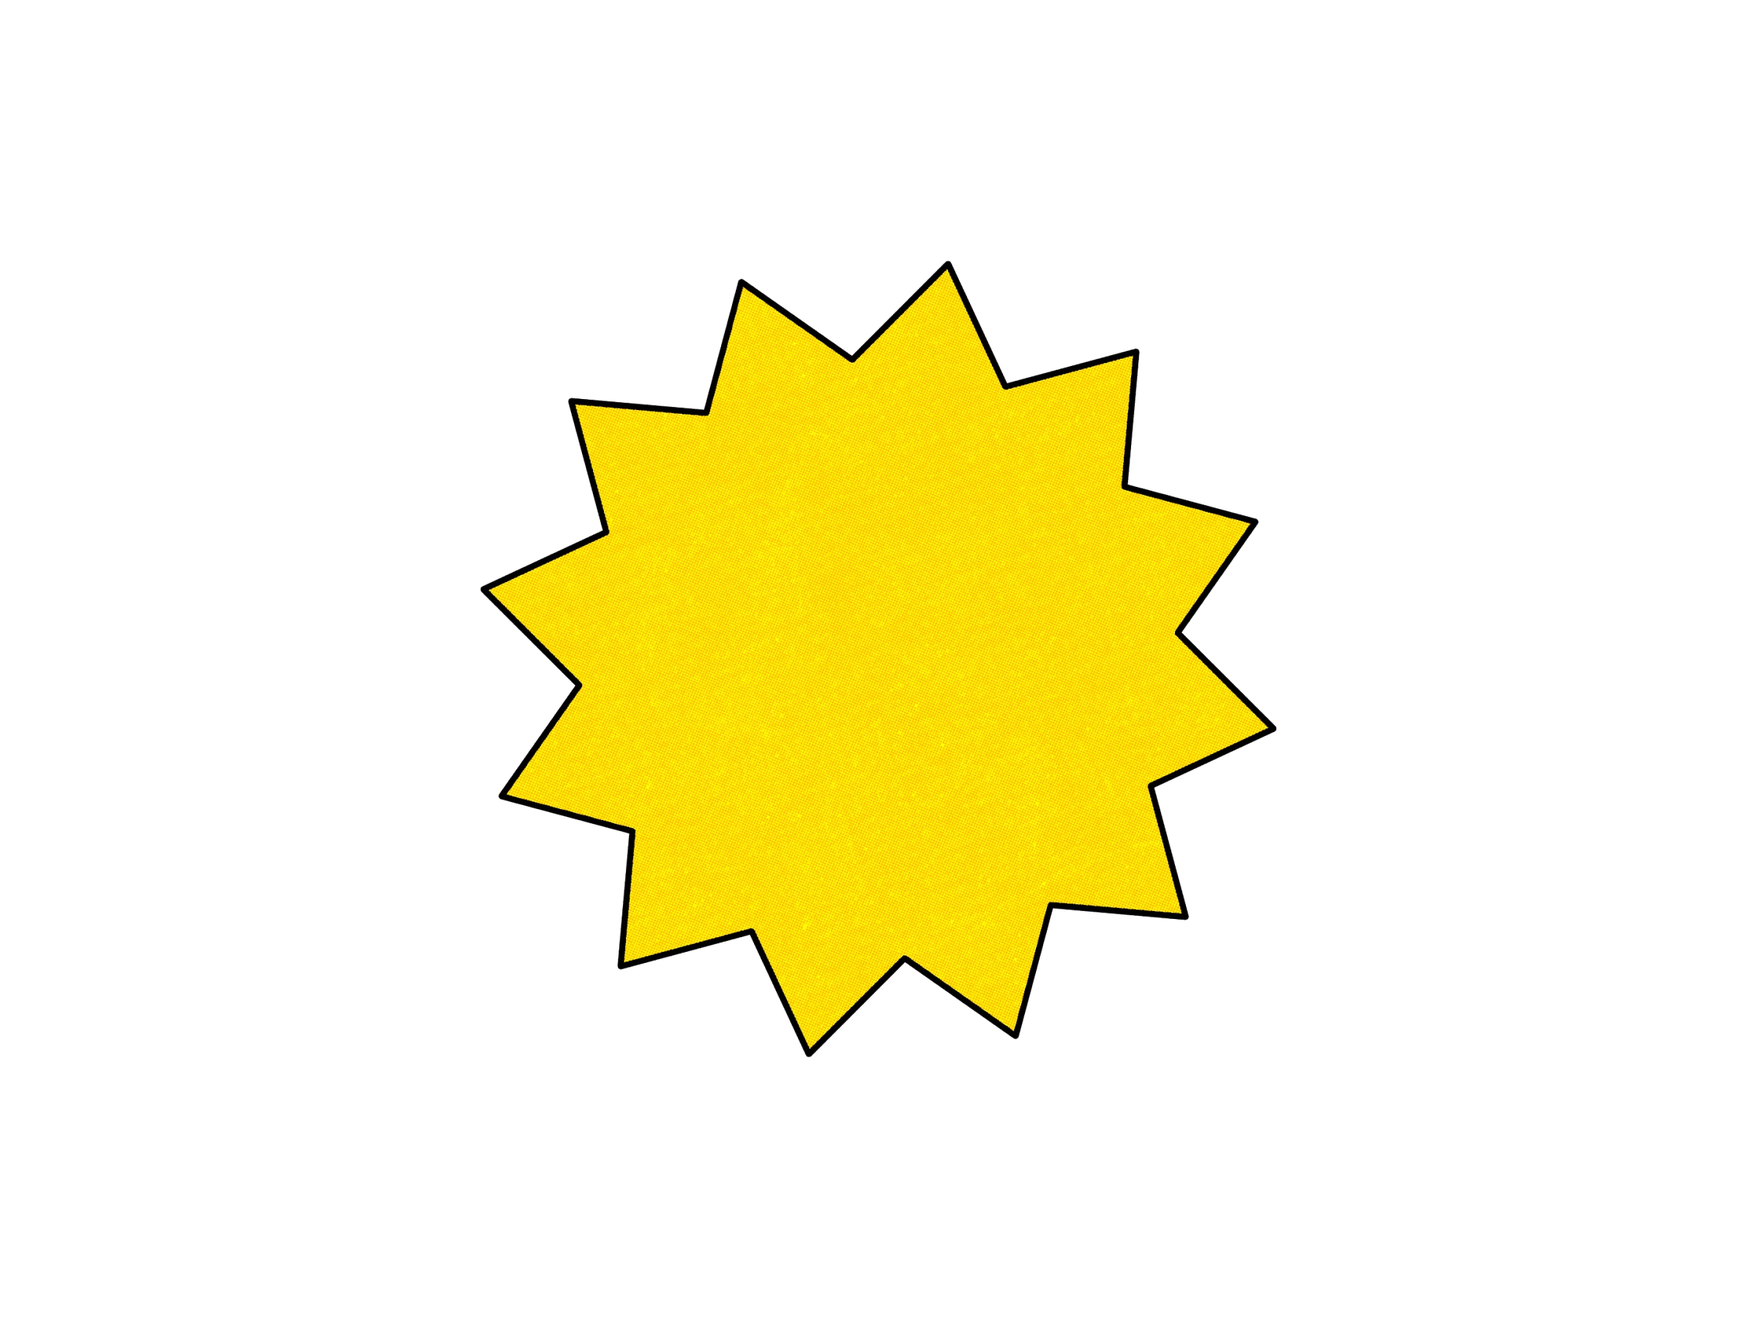
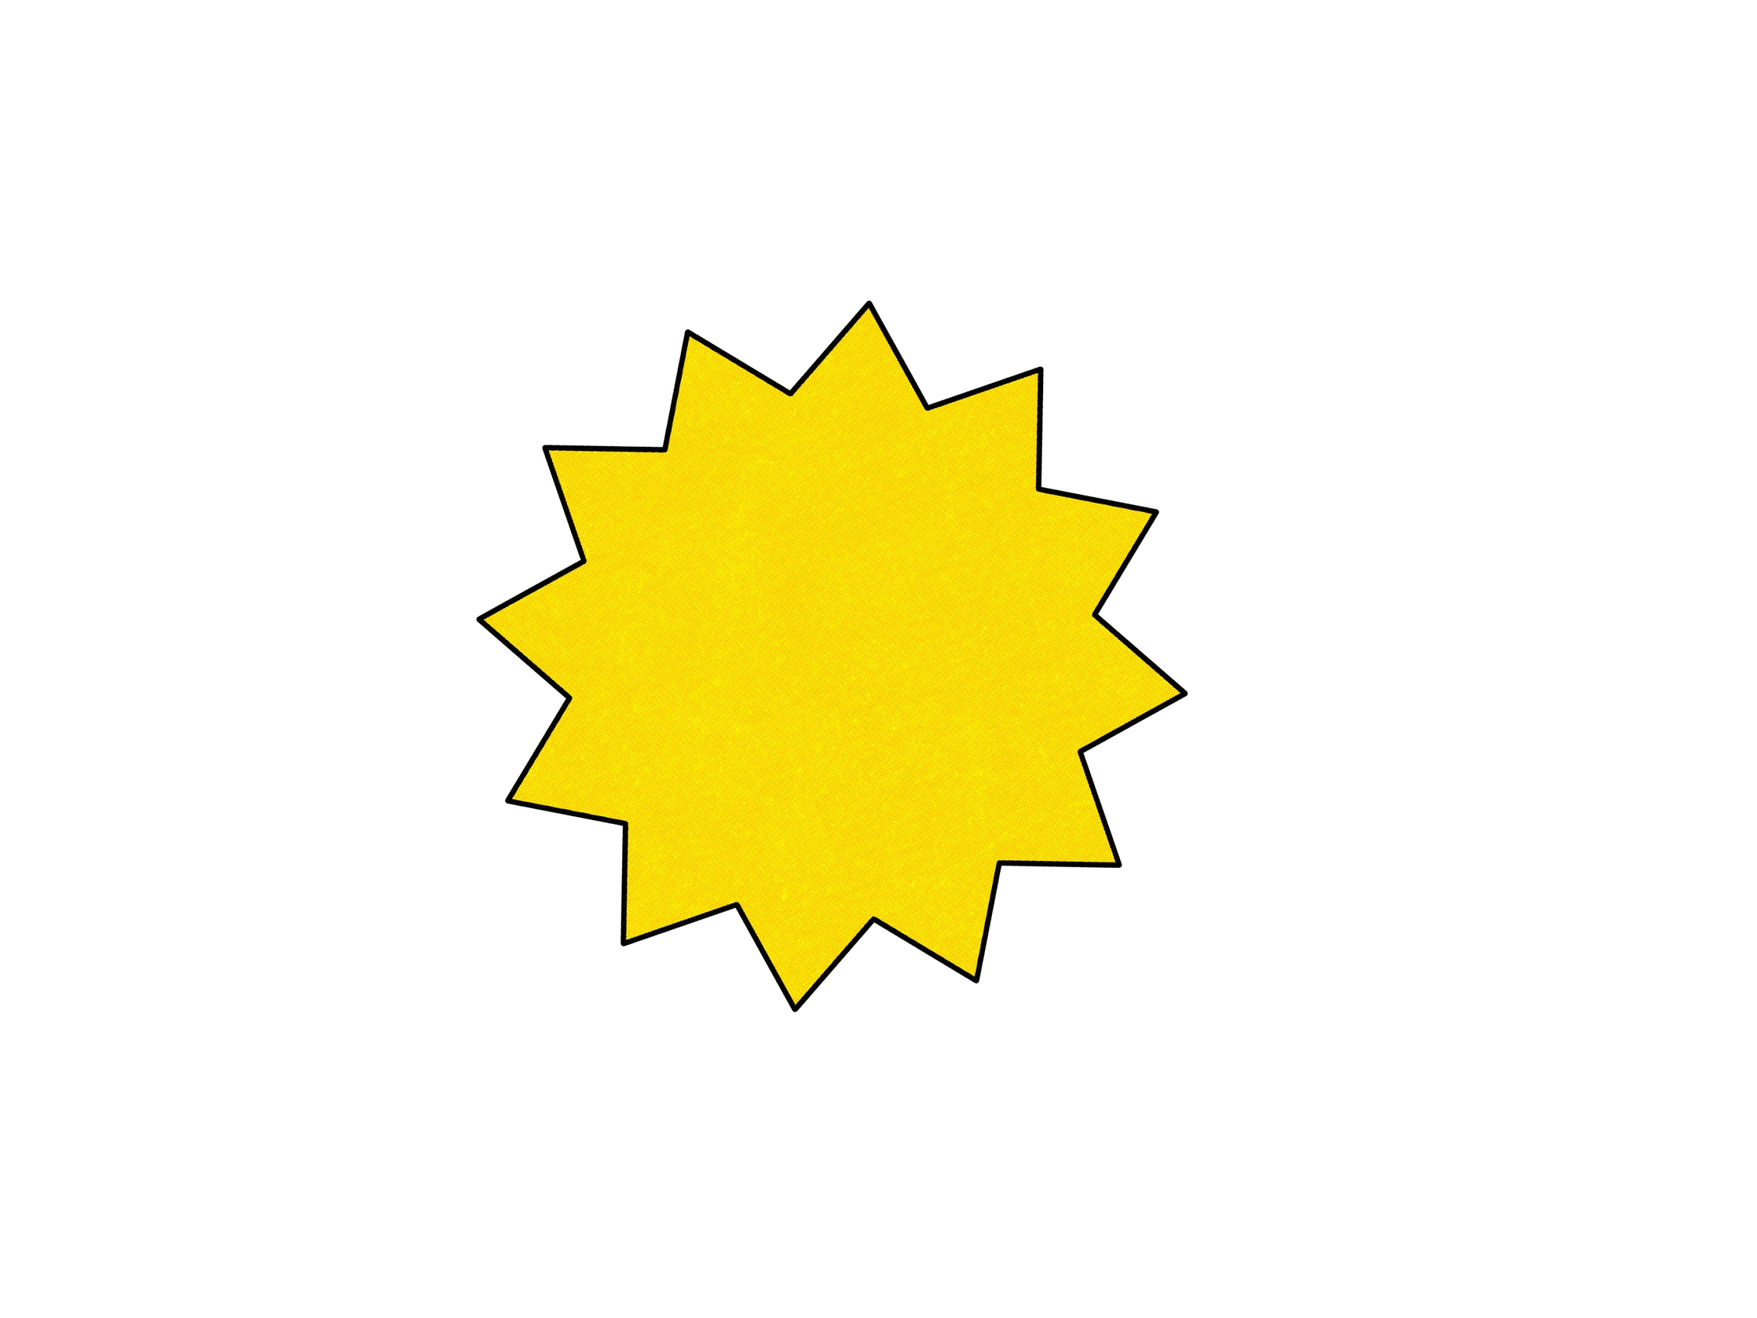
Misc: starburst fitted back to the original composite, hero held to the work-column width; asset version 212
Mike's split star came out ~11% larger, rotated and further right than in
his earlier single-subject composite. Fitted to that composite's visible
star tips (IoU 0.96): scale 0.885, rotate 4 deg, 76px left at 2880 wide.
The meal and letters were already within 1%. heroFit: 'content' keeps the
hero to the same margins as the work grid below.

Changed region(s): [[0.25, 0.1867, 0.7188, 0.8089]]

diff --git a/miscellaneous.html b/miscellaneous.html
@@ -5,13 +5,13 @@
 <meta name="viewport" content="width=device-width, initial-scale=1.0">
 <title>Miscellaneous — Michael Loya Studio</title>
 <meta name="description" content="Miscellaneous — Selected Works. Michael Loya Studio.">
-<link rel="icon" type="image/svg+xml" href="favicon.svg?v=211">
+<link rel="icon" type="image/svg+xml" href="favicon.svg?v=212">
 
 <link rel="canonical" href="https://michaelloya.studio/miscellaneous">
 
 <meta property="og:title" content="Miscellaneous — Michael Loya Studio">
 <meta property="og:description" content="Selected Works">
-<meta property="og:image" content="https://michaelloya.studio/projects/miscellaneous/you-cover.jpg?v=4">
+<meta property="og:image" content="https://michaelloya.studio/projects/miscellaneous/you-cover.jpg?v=5">
 <meta property="og:url" content="https://michaelloya.studio/miscellaneous">
 <meta property="og:type" content="article">
 <meta name="twitter:card" content="summary_large_image">
@@ -19,7 +19,7 @@
 <link rel="preconnect" href="https://fonts.googleapis.com">
 <link rel="preconnect" href="https://fonts.gstatic.com" crossorigin>
 <link href="https://fonts.googleapis.com/css2?family=Inter:ital,wght@0,300..700;1,300..700&display=swap" rel="stylesheet">
-<link rel="stylesheet" href="assets/css/site.css?v=211">
+<link rel="stylesheet" href="assets/css/site.css?v=212">
 <style>
   html { background: #0a0a0a; }
   body { opacity: 0; animation: pageIn 0.4s ease 0.03s forwards; }
@@ -91,9 +91,9 @@
 </footer>
 
 <script>window.PROJECT_SLUG = "miscellaneous";</script>
-<script src="assets/js/projects.js?v=211"></script>
-<script src="assets/js/project-page.js?v=211"></script>
-<script src="assets/js/site.js?v=211"></script>
+<script src="assets/js/projects.js?v=212"></script>
+<script src="assets/js/project-page.js?v=212"></script>
+<script src="assets/js/site.js?v=212"></script>
 <!-- GoatCounter: page views, no cookies. Skips itself on localhost. -->
 <script data-goatcounter="https://michaelloya.goatcounter.com/count" async src="https://gc.zgo.at/count.js"></script>
 </body>

diff --git a/index.html b/index.html
@@ -5,7 +5,7 @@
 <meta name="viewport" content="width=device-width, initial-scale=1.0">
 <title>Michael Loya Studio</title>
 <meta name="description" content="Michael Loya Studio — video, motion, and design for artists and brands.">
-<link rel="icon" type="image/svg+xml" href="favicon.svg?v=211">
+<link rel="icon" type="image/svg+xml" href="favicon.svg?v=212">
 
 <link rel="canonical" href="https://michaelloya.studio/">
 
@@ -19,7 +19,7 @@
 <link rel="preconnect" href="https://fonts.googleapis.com">
 <link rel="preconnect" href="https://fonts.gstatic.com" crossorigin>
 <link rel="stylesheet" href="https://use.typekit.net/oft2xxg.css">
-<link rel="stylesheet" href="assets/css/site.css?v=211">
+<link rel="stylesheet" href="assets/css/site.css?v=212">
 <style>
   /* First-paint guard. Applies before anything else resolves, so the page
      never flashes raw content before the load-in animations start.
@@ -81,8 +81,8 @@
     </div>
 
     <a class="hero-work" id="heroWork" href="/loya" aria-label="goodbye, for loya — latest work">
-      <video src="assets/video/hero-loop.mp4?v=211"
-             poster="assets/video/hero-loop-poster.jpg?v=211"
+      <video src="assets/video/hero-loop.mp4?v=212"
+             poster="assets/video/hero-loop-poster.jpg?v=212"
              muted loop playsinline preload="auto"
              width="1600" height="900"></video>
     </a>
@@ -111,9 +111,9 @@
 </footer>
 
 <!-- ══ PROJECT DETAIL ══ -->
-<script src="assets/js/projects.js?v=211"></script>
-<script src="assets/js/hero.js?v=211"></script>
-<script src="assets/js/site.js?v=211"></script>
+<script src="assets/js/projects.js?v=212"></script>
+<script src="assets/js/hero.js?v=212"></script>
+<script src="assets/js/site.js?v=212"></script>
 <!-- GoatCounter: page views, no cookies. Skips itself on localhost. -->
 <script data-goatcounter="https://michaelloya.goatcounter.com/count" async src="https://gc.zgo.at/count.js"></script>
 </body>

diff --git a/about.html b/about.html
@@ -5,7 +5,7 @@
 <meta name="viewport" content="width=device-width, initial-scale=1.0">
 <title>About — Michael Loya Studio</title>
 <meta name="description" content="Michael Loya — designer, editor, and motion designer. Syracuse University, Newhouse Department Prize in Motion Graphics.">
-<link rel="icon" type="image/svg+xml" href="favicon.svg?v=211">
+<link rel="icon" type="image/svg+xml" href="favicon.svg?v=212">
 
 <link rel="canonical" href="https://michaelloya.studio/about">
 
@@ -18,7 +18,7 @@
 
 <link rel="preconnect" href="https://fonts.googleapis.com">
 <link rel="preconnect" href="https://fonts.gstatic.com" crossorigin>
-<link rel="stylesheet" href="assets/css/site.css?v=211">
+<link rel="stylesheet" href="assets/css/site.css?v=212">
 <style>
   /* First-paint guard. Applies before anything else resolves, so the page
      never flashes raw content before the load-in animations start.
@@ -80,7 +80,7 @@
         <div><dt>Based</dt><dd>Tampa, FL</dd></div>
         <div><dt>Focus</dt><dd>Video, motion, and design</dd></div>
       </dl>
-      <a class="btn btn-solid about-resume" href="assets/site/resume.pdf?v=211" target="_blank" rel="noopener" data-wave>Download Resume</a>
+      <a class="btn btn-solid about-resume" href="assets/site/resume.pdf?v=212" target="_blank" rel="noopener" data-wave>Download Resume</a>
     </div>
 
   </div>
@@ -98,8 +98,8 @@
 </footer>
 
 
-<script src="assets/js/projects.js?v=211"></script>
-<script src="assets/js/site.js?v=211"></script>
+<script src="assets/js/projects.js?v=212"></script>
+<script src="assets/js/site.js?v=212"></script>
 <!-- GoatCounter: page views, no cookies. Skips itself on localhost. -->
 <script data-goatcounter="https://michaelloya.goatcounter.com/count" async src="https://gc.zgo.at/count.js"></script>
 </body>

diff --git a/bodyarmor-powerade.html b/bodyarmor-powerade.html
@@ -5,7 +5,7 @@
 <meta name="viewport" content="width=device-width, initial-scale=1.0">
 <title>BODYARMOR & Powerade — Michael Loya Studio</title>
 <meta name="description" content="BODYARMOR & Powerade — Brand Campaign. Michael Loya Studio.">
-<link rel="icon" type="image/svg+xml" href="favicon.svg?v=211">
+<link rel="icon" type="image/svg+xml" href="favicon.svg?v=212">
 
 <link rel="canonical" href="https://michaelloya.studio/bodyarmor-powerade">
 
@@ -19,7 +19,7 @@
 <link rel="preconnect" href="https://fonts.googleapis.com">
 <link rel="preconnect" href="https://fonts.gstatic.com" crossorigin>
 <link href="https://fonts.googleapis.com/css2?family=Inter:ital,wght@0,300..700;1,300..700&display=swap" rel="stylesheet">
-<link rel="stylesheet" href="assets/css/site.css?v=211">
+<link rel="stylesheet" href="assets/css/site.css?v=212">
 <style>
   html { background: #0a0a0a; }
   body { opacity: 0; animation: pageIn 0.4s ease 0.03s forwards; }
@@ -91,9 +91,9 @@
 </footer>
 
 <script>window.PROJECT_SLUG = "bodyarmor-powerade";</script>
-<script src="assets/js/projects.js?v=211"></script>
-<script src="assets/js/project-page.js?v=211"></script>
-<script src="assets/js/site.js?v=211"></script>
+<script src="assets/js/projects.js?v=212"></script>
+<script src="assets/js/project-page.js?v=212"></script>
+<script src="assets/js/site.js?v=212"></script>
 <!-- GoatCounter: page views, no cookies. Skips itself on localhost. -->
 <script data-goatcounter="https://michaelloya.goatcounter.com/count" async src="https://gc.zgo.at/count.js"></script>
 </body>

diff --git a/university-union.html b/university-union.html
@@ -5,7 +5,7 @@
 <meta name="viewport" content="width=device-width, initial-scale=1.0">
 <title>University Union — Michael Loya Studio</title>
 <meta name="description" content="University Union — Event Design. Michael Loya Studio.">
-<link rel="icon" type="image/svg+xml" href="favicon.svg?v=211">
+<link rel="icon" type="image/svg+xml" href="favicon.svg?v=212">
 
 <link rel="canonical" href="https://michaelloya.studio/university-union">
 
@@ -19,7 +19,7 @@
 <link rel="preconnect" href="https://fonts.googleapis.com">
 <link rel="preconnect" href="https://fonts.gstatic.com" crossorigin>
 <link href="https://fonts.googleapis.com/css2?family=Inter:ital,wght@0,300..700;1,300..700&display=swap" rel="stylesheet">
-<link rel="stylesheet" href="assets/css/site.css?v=211">
+<link rel="stylesheet" href="assets/css/site.css?v=212">
 <style>
   html { background: #0a0a0a; }
   body { opacity: 0; animation: pageIn 0.4s ease 0.03s forwards; }
@@ -91,9 +91,9 @@
 </footer>
 
 <script>window.PROJECT_SLUG = "university-union";</script>
-<script src="assets/js/projects.js?v=211"></script>
-<script src="assets/js/project-page.js?v=211"></script>
-<script src="assets/js/site.js?v=211"></script>
+<script src="assets/js/projects.js?v=212"></script>
+<script src="assets/js/project-page.js?v=212"></script>
+<script src="assets/js/site.js?v=212"></script>
 <!-- GoatCounter: page views, no cookies. Skips itself on localhost. -->
 <script data-goatcounter="https://michaelloya.goatcounter.com/count" async src="https://gc.zgo.at/count.js"></script>
 </body>

diff --git a/where-it-hurts.html b/where-it-hurts.html
@@ -5,7 +5,7 @@
 <meta name="viewport" content="width=device-width, initial-scale=1.0">
 <title>where it hurts. — Michael Loya Studio</title>
 <meta name="description" content="where it hurts. — Music Video. Michael Loya Studio.">
-<link rel="icon" type="image/svg+xml" href="favicon.svg?v=211">
+<link rel="icon" type="image/svg+xml" href="favicon.svg?v=212">
 
 <link rel="canonical" href="https://michaelloya.studio/where-it-hurts">
 
@@ -19,7 +19,7 @@
 <link rel="preconnect" href="https://fonts.googleapis.com">
 <link rel="preconnect" href="https://fonts.gstatic.com" crossorigin>
 <link href="https://fonts.googleapis.com/css2?family=Inter:ital,wght@0,300..700;1,300..700&display=swap" rel="stylesheet">
-<link rel="stylesheet" href="assets/css/site.css?v=211">
+<link rel="stylesheet" href="assets/css/site.css?v=212">
 <style>
   html { background: #0a0a0a; }
   body { opacity: 0; animation: pageIn 0.4s ease 0.03s forwards; }
@@ -91,9 +91,9 @@
 </footer>
 
 <script>window.PROJECT_SLUG = "where-it-hurts";</script>
-<script src="assets/js/projects.js?v=211"></script>
-<script src="assets/js/project-page.js?v=211"></script>
-<script src="assets/js/site.js?v=211"></script>
+<script src="assets/js/projects.js?v=212"></script>
+<script src="assets/js/project-page.js?v=212"></script>
+<script src="assets/js/site.js?v=212"></script>
 <!-- GoatCounter: page views, no cookies. Skips itself on localhost. -->
 <script data-goatcounter="https://michaelloya.goatcounter.com/count" async src="https://gc.zgo.at/count.js"></script>
 </body>

diff --git a/assets/js/projects.js b/assets/js/projects.js
@@ -13,6 +13,7 @@
 //              just enough to cover its own travel, see layerRestScale) or
 //              `pad` (the file carries that fraction of extra picture past
 //              each side). `s` overrides the scale outright.
+//   heroFit  — 'content' keeps the hero to the width of the work column.
 //   intro    — ONE short block of copy. Keep it tight.
 //   work     — the media below the copy. No prose here.
 const projects = [
@@ -179,13 +180,14 @@ const projects = [
     category: "Selected Works",
     tools: "Various",
     year: "2022–Present",
-    cover: `projects/miscellaneous/you-cover.jpg?v=4`,
-    hero: `projects/miscellaneous/you-hero.jpg?v=4`,
+    cover: `projects/miscellaneous/you-cover.jpg?v=5`,
+    hero: `projects/miscellaneous/you-hero.jpg?v=5`,
+    heroFit: 'content',   // as wide as the work below it, not the full-bleed slot
     /* Mike's layers: the sunburst, the Y and U, the starburst, the meal. */
     heroLayers: [
       { src: `projects/miscellaneous/you-hero-bg.jpg?v=3`, k: 0.004, edge: true },
       { src: `projects/miscellaneous/you-2-yu.webp`, k: 0.012, s: 1 },
-      { src: `projects/miscellaneous/you-1-star.webp`, k: 0.02, s: 1 },
+      { src: `projects/miscellaneous/you-1-star.webp?v=2`, k: 0.02, s: 1 },
       { src: `projects/miscellaneous/you-3-meal.webp`, k: 0.03, s: 1 }
     ],
     intro: `<p>A mix of passion projects, school assignments, professional work, and collaborations. Not every concept made it to production, but each one shaped my process.</p>`,

diff --git a/album-covers.html b/album-covers.html
@@ -5,7 +5,7 @@
 <meta name="viewport" content="width=device-width, initial-scale=1.0">
 <title>Album Covers — Michael Loya Studio</title>
 <meta name="description" content="Album Covers — Cover Art. Michael Loya Studio.">
-<link rel="icon" type="image/svg+xml" href="favicon.svg?v=211">
+<link rel="icon" type="image/svg+xml" href="favicon.svg?v=212">
 
 <link rel="canonical" href="https://michaelloya.studio/album-covers">
 
@@ -19,7 +19,7 @@
 <link rel="preconnect" href="https://fonts.googleapis.com">
 <link rel="preconnect" href="https://fonts.gstatic.com" crossorigin>
 <link href="https://fonts.googleapis.com/css2?family=Inter:ital,wght@0,300..700;1,300..700&display=swap" rel="stylesheet">
-<link rel="stylesheet" href="assets/css/site.css?v=211">
+<link rel="stylesheet" href="assets/css/site.css?v=212">
 <style>
   html { background: #0a0a0a; }
   body { opacity: 0; animation: pageIn 0.4s ease 0.03s forwards; }
@@ -91,9 +91,9 @@
 </footer>
 
 <script>window.PROJECT_SLUG = "album-covers";</script>
-<script src="assets/js/projects.js?v=211"></script>
-<script src="assets/js/project-page.js?v=211"></script>
-<script src="assets/js/site.js?v=211"></script>
+<script src="assets/js/projects.js?v=212"></script>
+<script src="assets/js/project-page.js?v=212"></script>
+<script src="assets/js/site.js?v=212"></script>
 <!-- GoatCounter: page views, no cookies. Skips itself on localhost. -->
 <script data-goatcounter="https://michaelloya.goatcounter.com/count" async src="https://gc.zgo.at/count.js"></script>
 </body>

diff --git a/loya.html b/loya.html
@@ -5,7 +5,7 @@
 <meta name="viewport" content="width=device-width, initial-scale=1.0">
 <title>loya — Michael Loya Studio</title>
 <meta name="description" content="loya — Creative Direction. Michael Loya Studio.">
-<link rel="icon" type="image/svg+xml" href="favicon.svg?v=211">
+<link rel="icon" type="image/svg+xml" href="favicon.svg?v=212">
 
 <link rel="canonical" href="https://michaelloya.studio/loya">
 
@@ -19,7 +19,7 @@
 <link rel="preconnect" href="https://fonts.googleapis.com">
 <link rel="preconnect" href="https://fonts.gstatic.com" crossorigin>
 <link href="https://fonts.googleapis.com/css2?family=Inter:ital,wght@0,300..700;1,300..700&display=swap" rel="stylesheet">
-<link rel="stylesheet" href="assets/css/site.css?v=211">
+<link rel="stylesheet" href="assets/css/site.css?v=212">
 <style>
   html { background: #0a0a0a; }
   body { opacity: 0; animation: pageIn 0.4s ease 0.03s forwards; }
@@ -91,9 +91,9 @@
 </footer>
 
 <script>window.PROJECT_SLUG = "loya";</script>
-<script src="assets/js/projects.js?v=211"></script>
-<script src="assets/js/project-page.js?v=211"></script>
-<script src="assets/js/site.js?v=211"></script>
+<script src="assets/js/projects.js?v=212"></script>
+<script src="assets/js/project-page.js?v=212"></script>
+<script src="assets/js/site.js?v=212"></script>
 <!-- GoatCounter: page views, no cookies. Skips itself on localhost. -->
 <script data-goatcounter="https://michaelloya.goatcounter.com/count" async src="https://gc.zgo.at/count.js"></script>
 </body>

diff --git a/gh-midi.html b/gh-midi.html
@@ -5,7 +5,7 @@
 <meta name="viewport" content="width=device-width, initial-scale=1.0">
 <title>GH MIDI — Michael Loya Studio</title>
 <meta name="description" content="GH MIDI turns a Guitar Hero controller into a real MIDI instrument. Free VST3 and standalone for macOS and Windows.">
-<link rel="icon" type="image/svg+xml" href="favicon.svg?v=211">
+<link rel="icon" type="image/svg+xml" href="favicon.svg?v=212">
 
 <link rel="canonical" href="https://michaelloya.studio/gh-midi">
 
@@ -18,7 +18,7 @@
 
 <link rel="preconnect" href="https://fonts.googleapis.com">
 <link rel="preconnect" href="https://fonts.gstatic.com" crossorigin>
-<link rel="stylesheet" href="assets/css/site.css?v=211">
+<link rel="stylesheet" href="assets/css/site.css?v=212">
 <style>
   /* First-paint guard. Applies before anything else resolves, so the page
      never flashes raw content before the load-in animations start.
@@ -99,9 +99,9 @@
 </footer>
 
 <script>window.PLUGIN_SLUG = "gh-midi";</script>
-<script src="assets/js/plugins.js?v=211"></script>
-<script src="assets/js/plugin-page.js?v=211"></script>
-<script src="assets/js/site.js?v=211"></script>
+<script src="assets/js/plugins.js?v=212"></script>
+<script src="assets/js/plugin-page.js?v=212"></script>
+<script src="assets/js/site.js?v=212"></script>
 <!-- GoatCounter: page views, no cookies. Skips itself on localhost. -->
 <script data-goatcounter="https://michaelloya.goatcounter.com/count" async src="https://gc.zgo.at/count.js"></script>
 </body>

diff --git a/all.html b/all.html
@@ -5,7 +5,7 @@
 <meta name="viewport" content="width=device-width, initial-scale=1.0">
 <title>Work &amp; Tools — Michael Loya Studio</title>
 <meta name="description" content="Selected design, motion, and video work by Michael Loya.">
-<link rel="icon" type="image/svg+xml" href="favicon.svg?v=211">
+<link rel="icon" type="image/svg+xml" href="favicon.svg?v=212">
 
 <link rel="canonical" href="https://michaelloya.studio/all">
 
@@ -18,7 +18,7 @@
 
 <link rel="preconnect" href="https://fonts.googleapis.com">
 <link rel="preconnect" href="https://fonts.gstatic.com" crossorigin>
-<link rel="stylesheet" href="assets/css/site.css?v=211">
+<link rel="stylesheet" href="assets/css/site.css?v=212">
 <style>
   /* First-paint guard. Applies before anything else resolves, so the page
      never flashes raw content before the load-in animations start.
@@ -80,9 +80,9 @@
   </div>
 </footer>
 
-<script src="assets/js/projects.js?v=211"></script>
-<script src="assets/js/plugins.js?v=211"></script>
-<script src="assets/js/site.js?v=211"></script>
+<script src="assets/js/projects.js?v=212"></script>
+<script src="assets/js/plugins.js?v=212"></script>
+<script src="assets/js/site.js?v=212"></script>
 <!-- GoatCounter: page views, no cookies. Skips itself on localhost. -->
 <script data-goatcounter="https://michaelloya.goatcounter.com/count" async src="https://gc.zgo.at/count.js"></script>
 </body>

diff --git a/tools.html b/tools.html
@@ -5,7 +5,7 @@
 <meta name="viewport" content="width=device-width, initial-scale=1.0">
 <title>Tools — Michael Loya Studio</title>
 <meta name="description" content="Free plugins by Michael Loya Studio. GH MIDI for any VST3 host, Lookout for After Effects.">
-<link rel="icon" type="image/svg+xml" href="favicon.svg?v=211">
+<link rel="icon" type="image/svg+xml" href="favicon.svg?v=212">
 
 <link rel="canonical" href="https://michaelloya.studio/tools">
 
@@ -18,7 +18,7 @@
 
 <link rel="preconnect" href="https://fonts.googleapis.com">
 <link rel="preconnect" href="https://fonts.gstatic.com" crossorigin>
-<link rel="stylesheet" href="assets/css/site.css?v=211">
+<link rel="stylesheet" href="assets/css/site.css?v=212">
 <style>
   /* First-paint guard. Applies before anything else resolves, so the page
      never flashes raw content before the load-in animations start.
@@ -74,8 +74,8 @@
   </div>
 </footer>
 
-<script src="assets/js/plugins.js?v=211"></script>
-<script src="assets/js/site.js?v=211"></script>
+<script src="assets/js/plugins.js?v=212"></script>
+<script src="assets/js/site.js?v=212"></script>
 <!-- GoatCounter: page views, no cookies. Skips itself on localhost. -->
 <script data-goatcounter="https://michaelloya.goatcounter.com/count" async src="https://gc.zgo.at/count.js"></script>
 </body>
